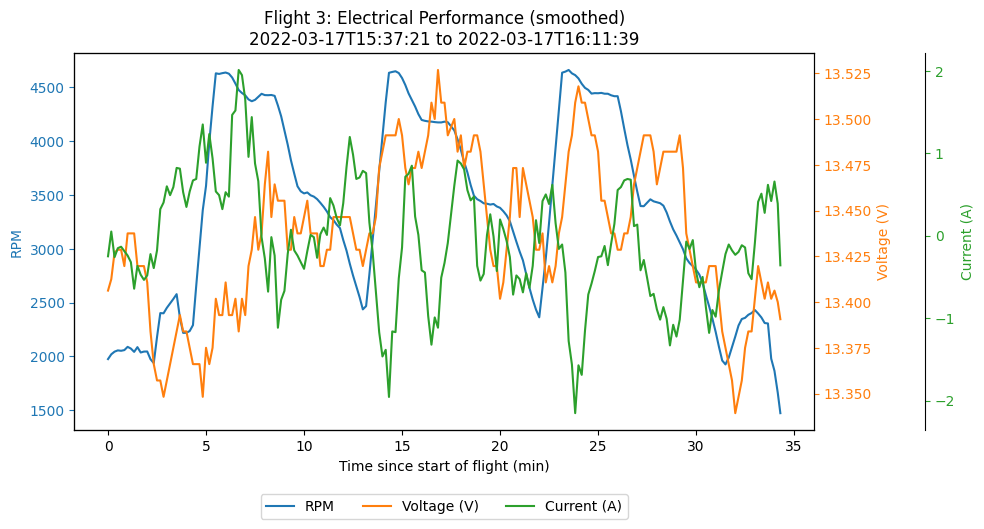
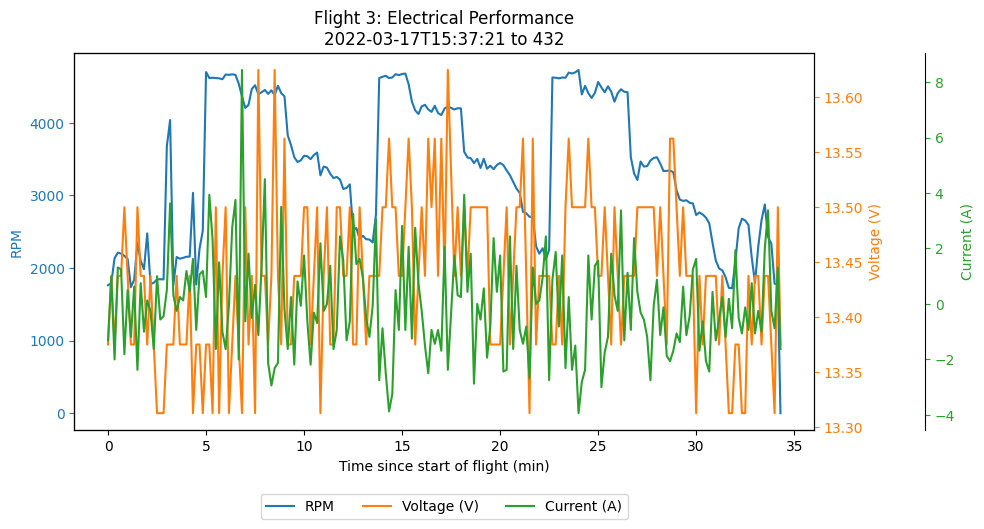
EDLL-7

diff --git a/generate_chart.py b/generate_chart.py
@@ -179,19 +179,33 @@ def moving_average_centered(data, window_size=5):
 def main():
     args = parse_args()
     chart_spec = load_chart_spec(args.chart)
-    y_axes = chart_spec['y_axes']
-    y_columns = [y['column'] for y in y_axes]
-    y_labels = [y['label'] for y in y_axes]
+    # --- Support both y_groups (new) and y_axes (legacy) ---
+    if 'y_groups' in chart_spec:
+        y_groups = chart_spec['y_groups']
+        y_columns = []
+        y_labels = []
+        axis_indices = []
+        for group in y_groups:
+            axis = group.get('axis', 0)
+            for series in group.get('series', []):
+                y_columns.append(series['column'])
+                y_labels.append(series['label'])
+                axis_indices.append(axis)
+    elif 'y_axes' in chart_spec:
+        y_axes = chart_spec['y_axes']
+        y_columns = [y['column'] for y in y_axes]
+        y_labels = [y['label'] for y in y_axes]
+        axis_indices = [y.get('axis', i) for i, y in enumerate(y_axes)]
+    else:
+        raise ValueError('Chart spec must have either y_groups or y_axes')
     conn = sqlite3.connect(DB_PATH)
     flight = get_flight_segment(conn, args.flight)
     start_rowid = flight['start_rowid']
     end_rowid = flight['end_rowid']
     data, colnames = get_flight_data(conn, start_rowid, end_rowid, y_columns)
     col_idx = {name: i+1 for i, name in enumerate(y_columns)}  # +1 because rowid is at 0
-    # Add time columns
     for tcol in ['zulu_year', 'zulu_mo', 'zulu_day', 'zulu_hour', 'zulu_min', 'zulu_sec']:
         col_idx[tcol] = colnames.index(tcol)
-    # Build time axis
     times = []
     y_data = [[] for _ in y_columns]
     t0 = None
@@ -219,8 +233,6 @@ def main():
         plot_y_data = y_data
         title_suffix = ""
     # Plot with support for multiple y-axes
-    # Prepare axis assignment and colors
-    axis_indices = [y.get('axis', i) for i, y in enumerate(y_axes)]
     axis_colors = ['tab:blue', 'tab:orange', 'tab:green']
     axes = [None, None, None]
     fig, ax1 = plt.subplots(figsize=(10, 6))
@@ -241,19 +253,20 @@ def main():
         color = axis_colors[axis_idx % len(axis_colors)]
         l, = ax.plot(times, y, label=y_labels[i], color=color)
         line_handles.append(l)
-        # Set y-label color and tick color
         ax.yaxis.label.set_color(color)
         ax.tick_params(axis='y', colors=color)
     # Set axis labels
     ax1.set_xlabel('Time since start of flight (min)')
-    if axes[0]:
-        axes[0].set_ylabel(y_labels[axis_indices.index(0)])
-    if axes[1]:
-        axes[1].set_ylabel(y_labels[axis_indices.index(1)])
-    if axes[2]:
-        axes[2].set_ylabel(y_labels[axis_indices.index(2)])
+    # Set y-labels for each axis (use first label for each axis)
+    for axis in range(3):
+        if axes[axis]:
+            try:
+                label_idx = axis_indices.index(axis)
+                axes[axis].set_ylabel(y_labels[label_idx])
+            except ValueError:
+                pass
     # Title
-    title = f"Flight {args.flight}: {chart_spec.get('label', args.chart)}{title_suffix}\n{flight['start_timestamp']} to {flight['end_timestamp']}"
+    title = f"Flight {args.flight}: {chart_spec.get('label', args.chart)}{title_suffix}\n{flight['start_timestamp']} to {flight['end_rowid']}"
     plt.title(title)
     # Combine all legend entries
     labs = [l.get_label() for l in line_handles]
